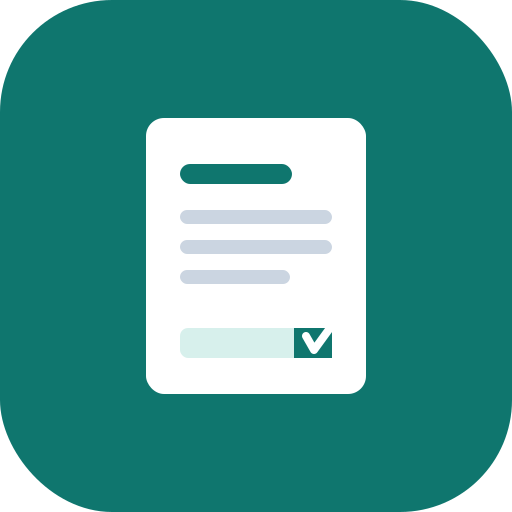
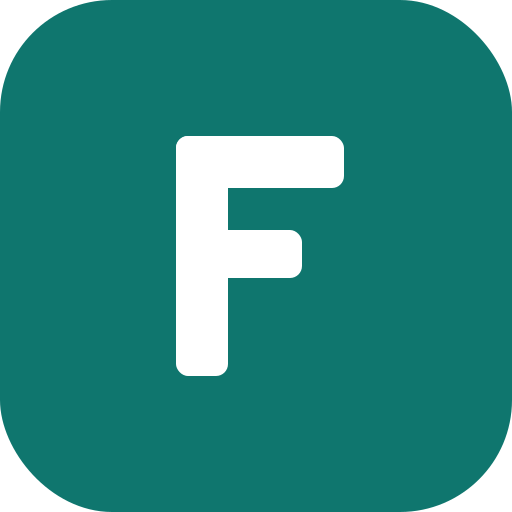
Icône : monogramme « F » (teal) comme icône de l'application
- Nouvelle icône SVG (monogramme F blanc sur fond teal arrondi)
- Régénération des PNG 192 / 512 et de la version maskable
- Bump du cache du service worker (v3) pour propager la mise à jour

Claude-Session: https://claude.ai/code/session_01LzHMD7Dgic6CAoRtqZP6FA

Changed region(s): [[0.2812, 0.2188, 0.7188, 0.7812]]

diff --git a/sw.js b/sw.js
@@ -1,5 +1,5 @@
 /* ================= FactoPro — Service Worker (mode hors ligne) ================= */
-const CACHE = "factopro-v2";
+const CACHE = "factopro-v3";
 const ASSETS = [
   "./",
   "./index.html",
